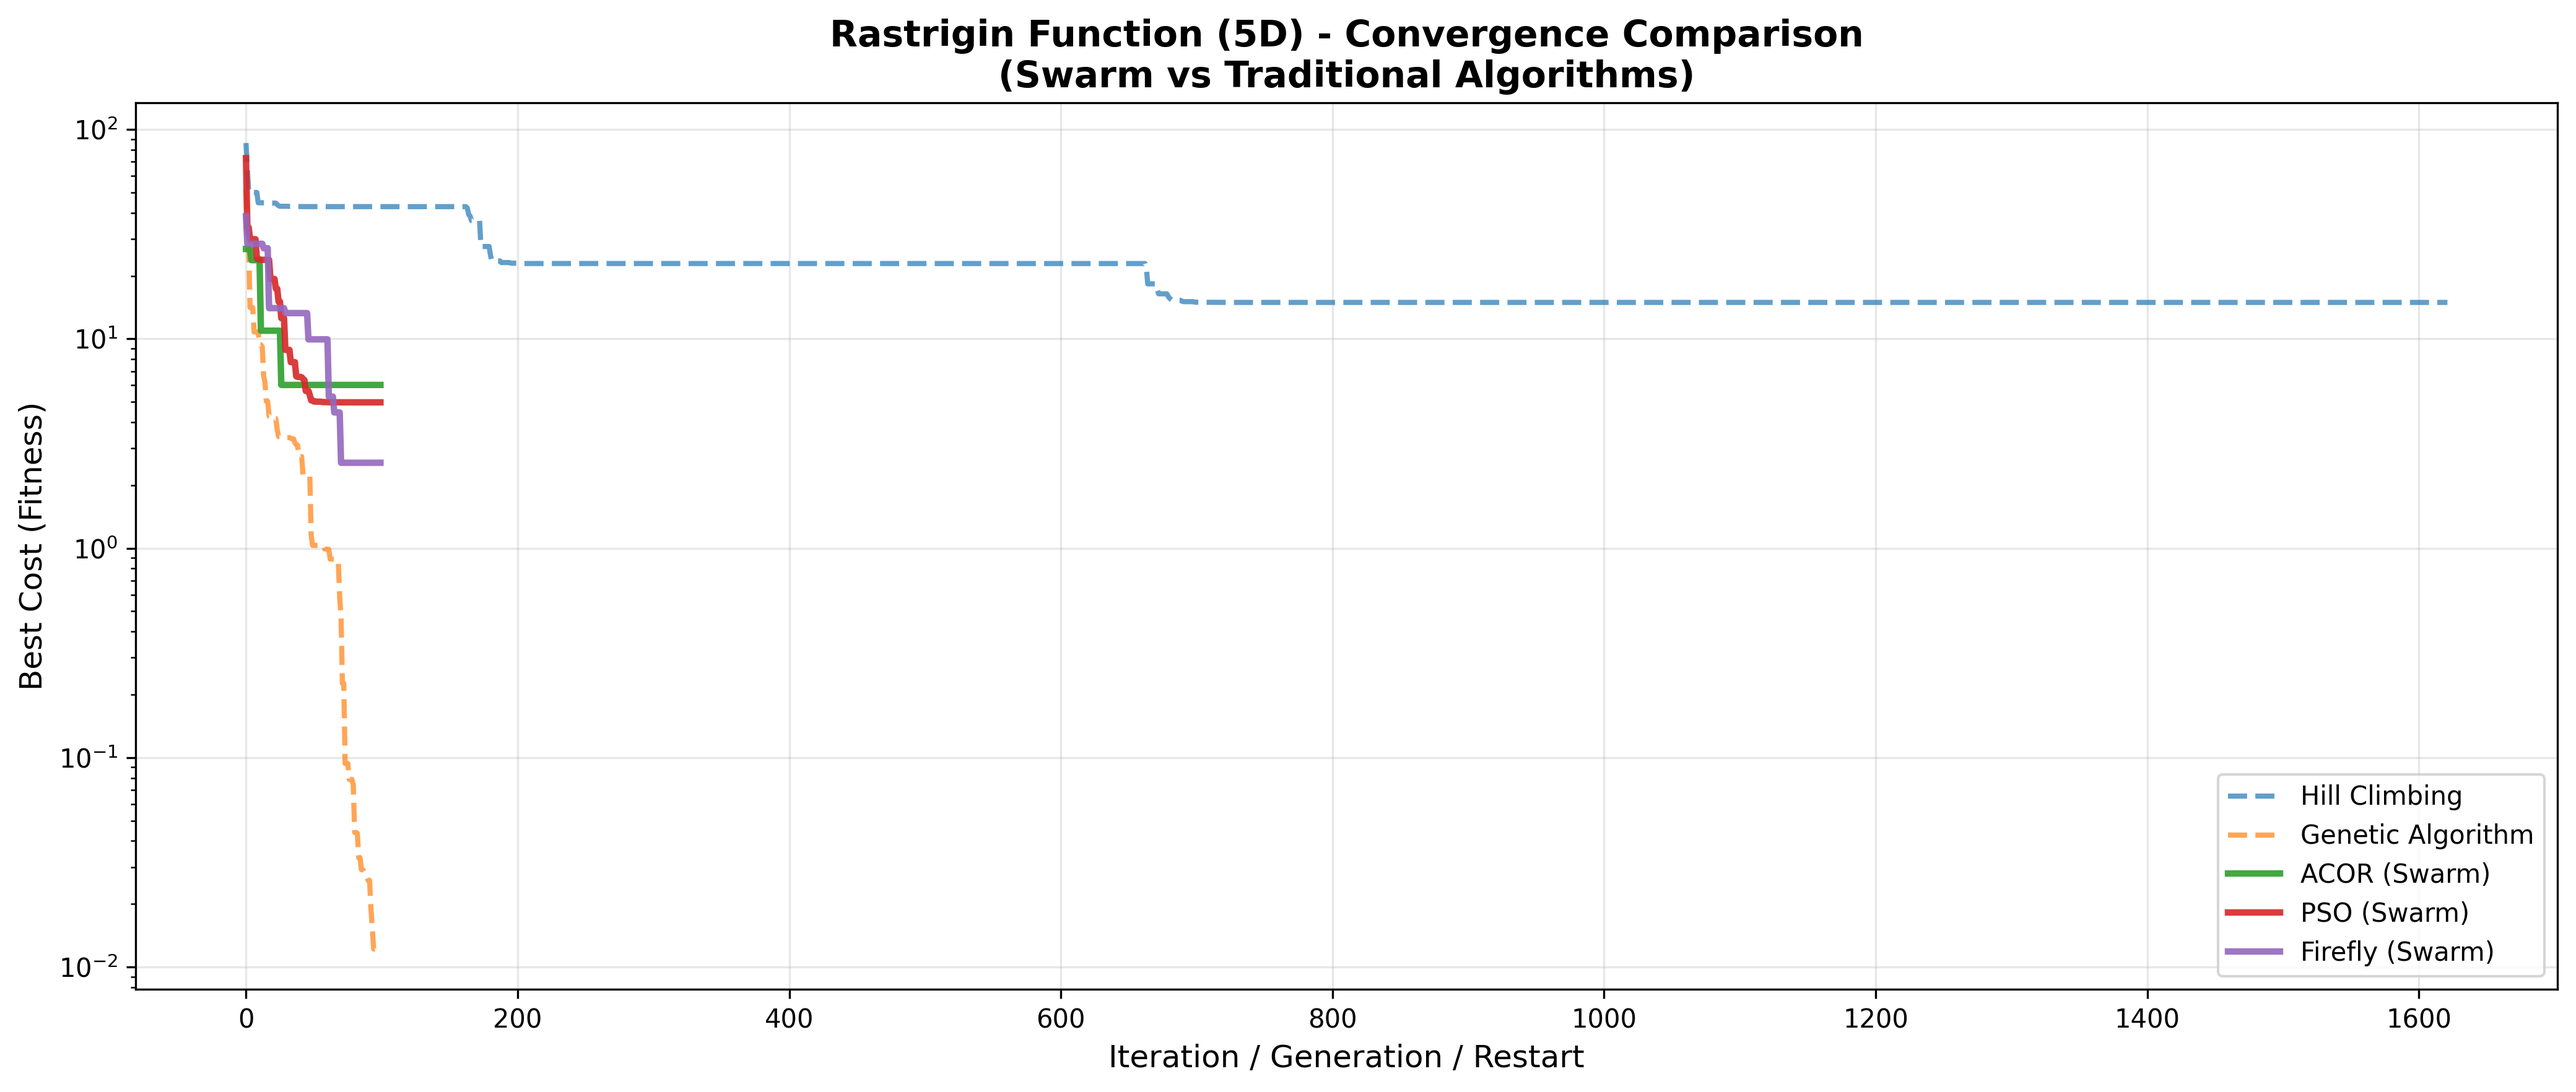
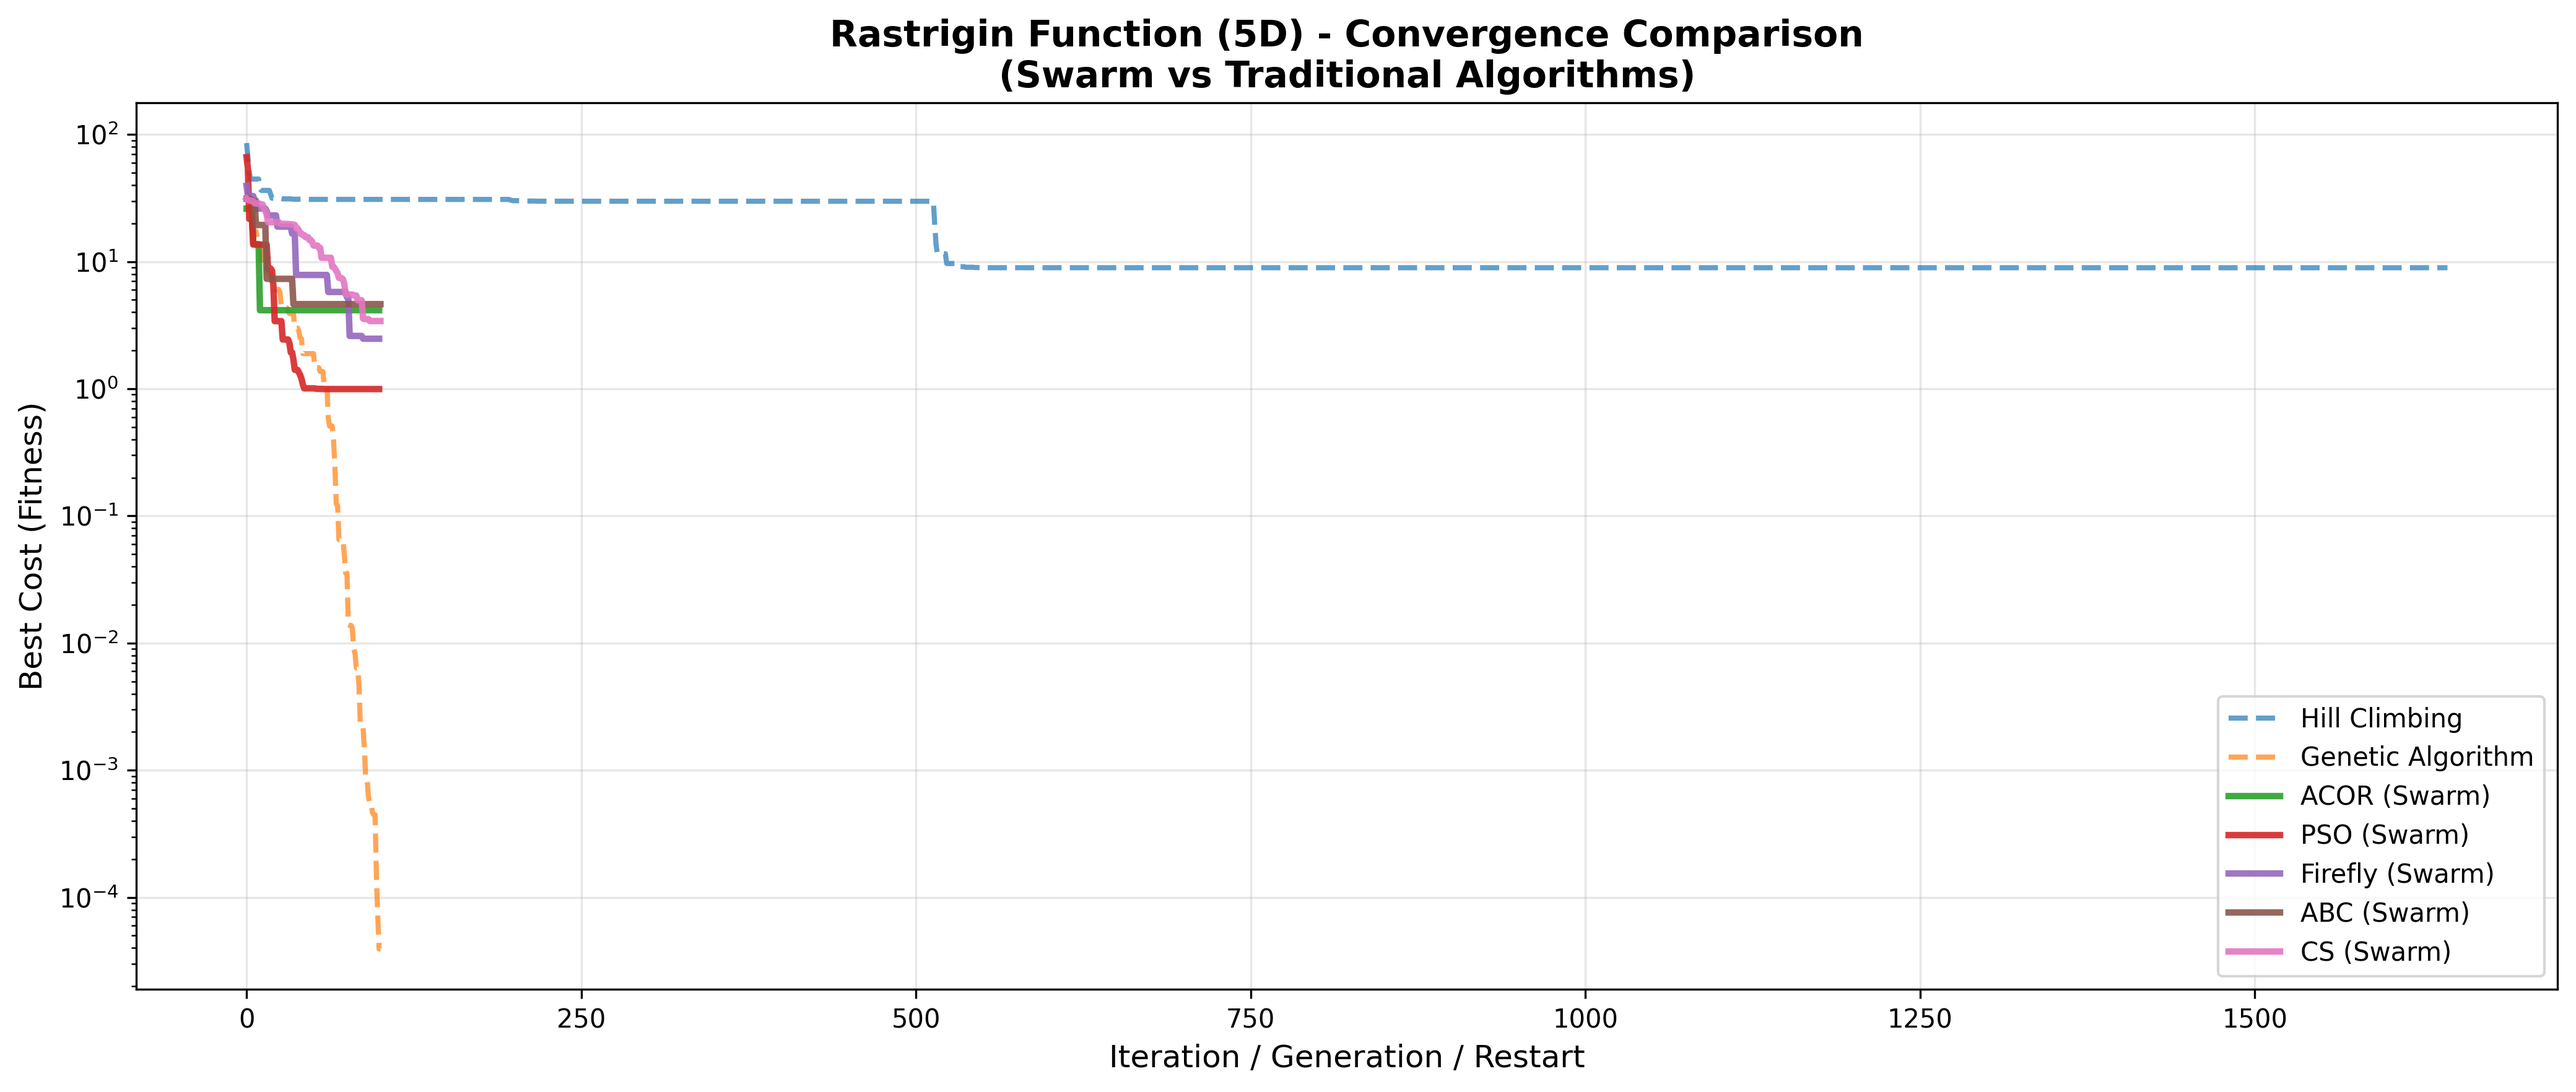
ABC & CS algo

diff --git a/utils/compare_all_algorithms.py b/utils/compare_all_algorithms.py
@@ -29,6 +29,18 @@ try:
 except Exception as e:
     print(f"Warning: Could not import ACOR_Solver - {e}")
     ACOR_Solver = None
+    
+try:
+    from algo5_CS.continuous.main import cuckoo_search as CS_Solver
+except Exception as e:
+    print(f"Warning: Could not import CS_Solver - {e}")
+    CS_Solver = None
+
+try:
+    from algo5_CS.discrete.main import cuckoo_search_tsp as CS_TSP_Solver
+except Exception as e:
+    print(f"Warning: Could not import CS_TSP_Solver - {e}")
+    CS_TSP_Solver = None
 
 try:
     from algo1_ACO.tsp.ACO import ACO_TSP_Solver
@@ -59,6 +71,18 @@ try:
 except:
     print("Warning: Could not import DiscreteFireflyAlgorithm")
     DiscreteFireflyAlgorithm = None
+
+try:
+    from algo3_ABC.continuous.main import artificial_bee_colony
+except:
+    print("Warning: Could not import ABC continuous")
+    artificial_bee_colony = None
+
+try:
+    from algo3_ABC.discrete.main import artificial_bee_colony_tsp
+except:
+    print("Warning: Could not import ABC discrete")
+    artificial_bee_colony_tsp = None
 
 # Import traditional algorithms
 from algo_Traditional.continuous_traditional import HillClimbing, GeneticAlgorithm
@@ -198,7 +222,7 @@ def run_continuous_comparison(n_dims=5, bounds=(-5.12, 5.12),
     
     # --- 5. Firefly Algorithm ---
     if FireflyAlgorithm:
-        print("\n[5/5] Running Firefly Algorithm (Swarm Intelligence)...")
+        print("\n[5/6] Running Firefly Algorithm (Swarm Intelligence)...")
         start_time = time.time()
         fa = FireflyAlgorithm(
             objective_func=function,
@@ -223,7 +247,79 @@ def run_continuous_comparison(n_dims=5, bounds=(-5.12, 5.12),
             extra_info={'fireflies': 30, 'iterations': 100}
         ))
     else:
-        print("\n[5/5] Firefly Algorithm not available - skipping")
+        print("\n[5/6] Firefly Algorithm not available - skipping")
+
+    # --- 6. Artificial Bee Colony ---
+    if artificial_bee_colony:
+        print("\n[6/7] Running Artificial Bee Colony (Swarm Intelligence)...")
+        start_time = time.time()
+
+        # Configure ABC parameters similar to the implementation
+        N = 50              # Number of food sources (population size)
+        D = n_dims          # Problem dimension
+        MaxGen = 100        # Number of iterations
+        limit = 20          # Trial limit for scout bees
+
+        try:
+            # artificial_bee_colony expects: func_to_optimize, LB, UB, D, N, MaxGen, limit
+            abc_solution, abc_cost, abc_history = artificial_bee_colony(
+                function, bounds[0], bounds[1], D, N, MaxGen, limit
+            )
+        except Exception as e:
+            print(f"Error running ABC continuous: {e}")
+            abc_solution, abc_cost, abc_history = None, float('inf'), []
+
+        abc_time = time.time() - start_time
+
+        results.append(AlgorithmResults(
+            name="ABC (Swarm)",
+            solution=abc_solution,
+            cost=abc_cost,
+            time_elapsed=abc_time,
+            convergence_history=abc_history,
+            extra_info={'population': N, 'iterations': MaxGen, 'limit': limit}
+        ))
+    else:
+        print("\n[6/7] Artificial Bee Colony not available - skipping")
+
+    # --- 7. Cuckoo Search ---
+    if CS_Solver:
+        print("\n[7/7] Running Cuckoo Search (Swarm Intelligence)...")
+        start_time = time.time()
+        
+        # Configure CS parameters similar to the implementation
+        N = 50              # Number of nests (population)
+        MaxGen = 100        # Number of generations
+        pa = 0.25          # Discovery rate 
+        alpha = 0.01       # Step size scaling
+
+        try:
+            cs_solution, cs_cost, cs_history = CS_Solver(
+                func_to_optimize=function,
+                LB=bounds[0],
+                UB=bounds[1],
+                D=n_dims,
+                N=N,
+                MaxGen=MaxGen,
+                pa=pa,
+                alpha=alpha
+            )
+        except Exception as e:
+            print(f"Error running CS continuous: {e}")
+            cs_solution, cs_cost, cs_history = None, float('inf'), []
+
+        cs_time = time.time() - start_time
+
+        results.append(AlgorithmResults(
+            name="CS (Swarm)",
+            solution=cs_solution,
+            cost=cs_cost,
+            time_elapsed=cs_time,
+            convergence_history=cs_history,
+            extra_info={'nests': N, 'iterations': MaxGen, 'discovery_rate': pa}
+        ))
+    else:
+        print("\n[7/7] Cuckoo Search not available - skipping")
     
     return results
 
@@ -380,7 +476,86 @@ def run_tsp_comparison(n_cities=20, map_size=100, seed=42):
         ))
     else:
         print("\n[6/6] Discrete Firefly Algorithm not available - skipping")
-    
+
+    # --- 7. Artificial Bee Colony for TSP ---
+    if 'artificial_bee_colony_tsp' in globals() and artificial_bee_colony_tsp:
+        print("\n[7/8] Running Artificial Bee Colony for TSP (Swarm Intelligence)...")
+        start_time = time.time()
+        # Configure ABC parameters
+        N = 40              # Number of food sources (population size)
+        D = len(cities)     # Dimension (number of cities)
+        MaxGen = 100        # Number of iterations
+        limit = 20          # Trial limit for scout bees
+
+        # Create distance matrix
+        dist_matrix = np.zeros((len(cities), len(cities)))
+        for i in range(len(cities)):
+            for j in range(len(cities)):
+                if i != j:
+                    dist_matrix[i, j] = np.sqrt(np.sum((cities[i] - cities[j])**2))
+
+        try:
+            abc_tour, abc_cost, abc_history = artificial_bee_colony_tsp(dist_matrix, D, N, MaxGen, limit)
+        except Exception as e:
+            print(f"Error running ABC TSP: {e}")
+            abc_tour, abc_cost, abc_history = None, float('inf'), []
+
+        abc_time = time.time() - start_time
+
+        results.append(AlgorithmResults(
+            name="ABC (Swarm)",
+            solution=abc_tour,
+            cost=abc_cost,
+            time_elapsed=abc_time,
+            convergence_history=abc_history,
+            extra_info={'population': N, 'iterations': MaxGen, 'limit': limit}
+        ))
+    else:
+        print("\n[7/8] Artificial Bee Colony for TSP not available - skipping")
+
+    # --- 8. Cuckoo Search for TSP ---
+    if CS_TSP_Solver:
+        print("\n[8/8] Running Cuckoo Search for TSP (Swarm Intelligence)...")
+        start_time = time.time()
+
+        # Configure CS parameters
+        N = 40              # Number of nests
+        D = len(cities)     # Number of cities
+        MaxGen = 100        # Number of iterations
+        pa = 0.25          # Discovery rate
+
+        # Create distance matrix
+        dist_matrix = np.zeros((len(cities), len(cities)))
+        for i in range(len(cities)):
+            for j in range(len(cities)):
+                if i != j:
+                    dist_matrix[i, j] = np.sqrt(np.sum((cities[i] - cities[j])**2))
+
+        try:
+            cs_tour, cs_cost, cs_history = CS_TSP_Solver(
+                dist_matrix=dist_matrix, 
+                D=D,
+                N=N, 
+                MaxGen=MaxGen, 
+                pa=pa
+            )
+        except Exception as e:
+            print(f"Error running CS TSP: {e}")
+            cs_tour, cs_cost, cs_history = None, float('inf'), []
+
+        cs_time = time.time() - start_time
+
+        results.append(AlgorithmResults(
+            name="CS (Swarm)",
+            solution=cs_tour,
+            cost=cs_cost,
+            time_elapsed=cs_time,
+            convergence_history=cs_history,
+            extra_info={'nests': N, 'iterations': MaxGen, 'discovery_rate': pa}
+        ))
+    else:
+        print("\n[8/8] Cuckoo Search for TSP not available - skipping")
+
     return results, cities
 
 

diff --git a/utils/check_abc_import.py b/utils/check_abc_import.py
@@ -1,0 +1,11 @@
+import importlib
+
+try:
+    m = importlib.import_module('algo3_ABC.continuous.main')
+    print('module_loaded', bool(m))
+    print('has_artificial_bee_colony', hasattr(m, 'artificial_bee_colony'))
+    print('module_file', getattr(m, '__file__', 'N/A'))
+    for name in ('func_to_optimize','LB','UB','N','D','MaxGen','limit'):
+        print(name, 'in module:', hasattr(m, name))
+except Exception as e:
+    print('import_error:', e)
